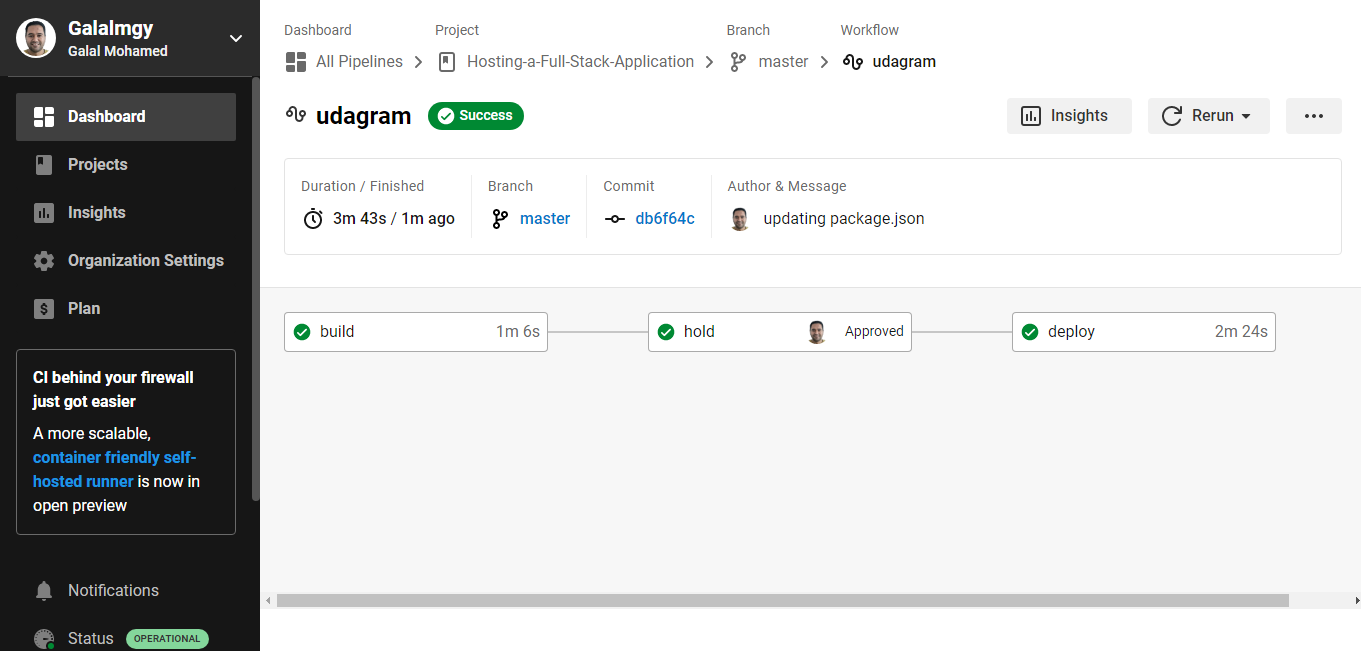
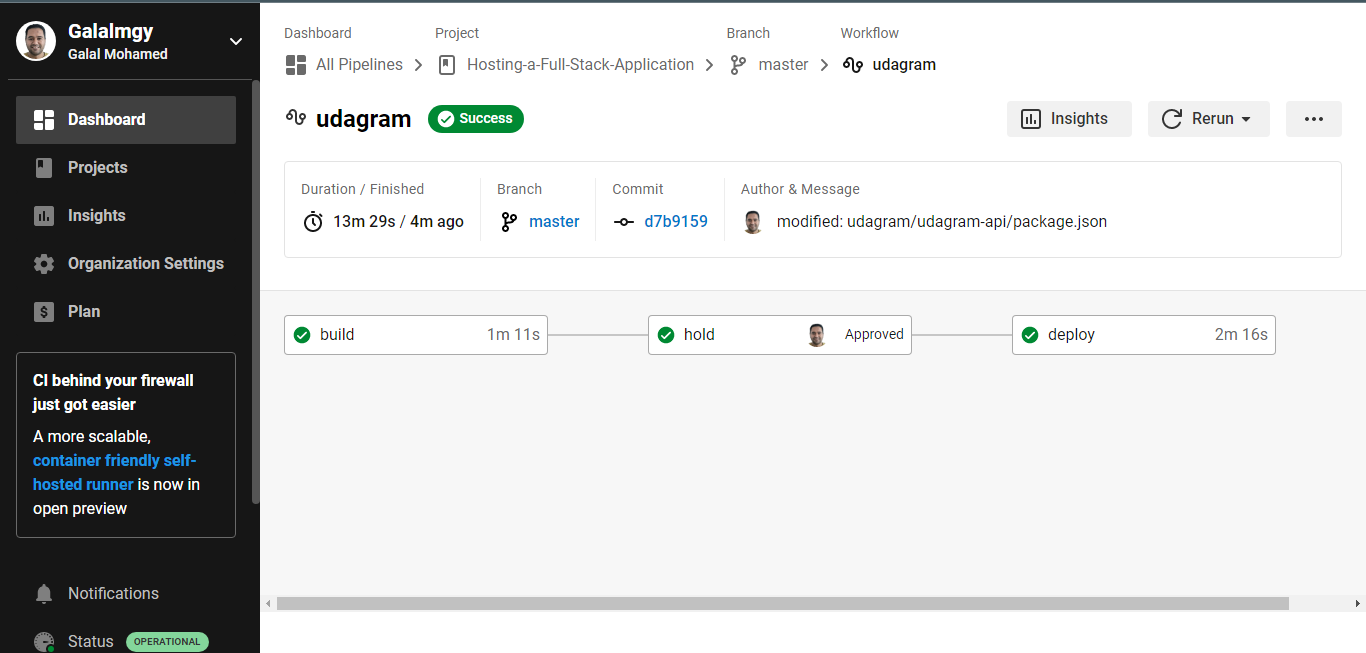
modified:   README.md 	new file:   Screenshots/Circleci_last_build.PNG 	modified:   Screenshots/Circleci_workflow.PNG 	new file:   Screenshots/Cirleci_Pipeline.png 	new file:   Screenshots/Cloud Services.PNG 	deleted:    Screenshots/EB_Using_Circleci     new file:   Screenshots/EB_Using_Circleci.PNG

diff --git a/README.md b/README.md
@@ -1,6 +1,7 @@
 # Hosting a Full-Stack Application
 
-### **You can use you own project completed in previous courses or use the provided Udagram app for completing this final project.**
+## Applicarion URL:
+  - http://galal-udagram.s3-website-us-east-1.amazonaws.com/
 
 ---
 
@@ -37,19 +38,19 @@ This application is provided to you as an alternative starter project if you do 
 
 Provision the necessary AWS services needed for running the application:
 
-1. In AWS, provision a publicly available RDS database running Postgres. <Place holder for link to classroom article>
-1. In AWS, provision a s3 bucket for hosting the uploaded files. <Place holder for tlink to classroom article>
-1. Export the ENV variables needed or use a package like [dotnev](https://www.npmjs.com/package/dotenv)/.
-1. From the root of the repo, navigate udagram-api folder `cd starter/udagram-api` to install the node_modules `npm install`. After installation is done start the api in dev mode with `npm run dev`.
-1. Without closing the terminal in step 1, navigate to the udagram-frontend `cd starter/udagram-frontend` to intall the node_modules `npm install`. After installation is done start the api in dev mode with `npm run start`.
+1. In AWS, provision a publicly available RDS database running Postgres. 
+2. In AWS, provision a s3 bucket for hosting the uploaded files.
+3. Export the ENV variables needed or use a package like [dotnev](https://www.npmjs.com/package/dotenv)/.
+4. From the root of the repo, navigate udagram-api folder `cd starter/udagram-api` to install the node_modules `npm install`. After installation is done start the api in dev mode with `npm run dev`.
+5. Without closing the terminal in step 1, navigate to the udagram-frontend `cd starter/udagram-frontend` to intall the node_modules `npm install`. After installation is done start the api in dev mode with `npm run start`.
 
 ## Testing
 
 This project contains two different test suite: unit tests and End-To-End tests(e2e). Follow these steps to run the tests.
 
 1. `cd starter/udagram-frontend`
-1. `npm run test`
-1. `npm run e2e`
+2. `npm run test`
+3. `npm run e2e`
 
 There are no Unit test on the back-end
 
